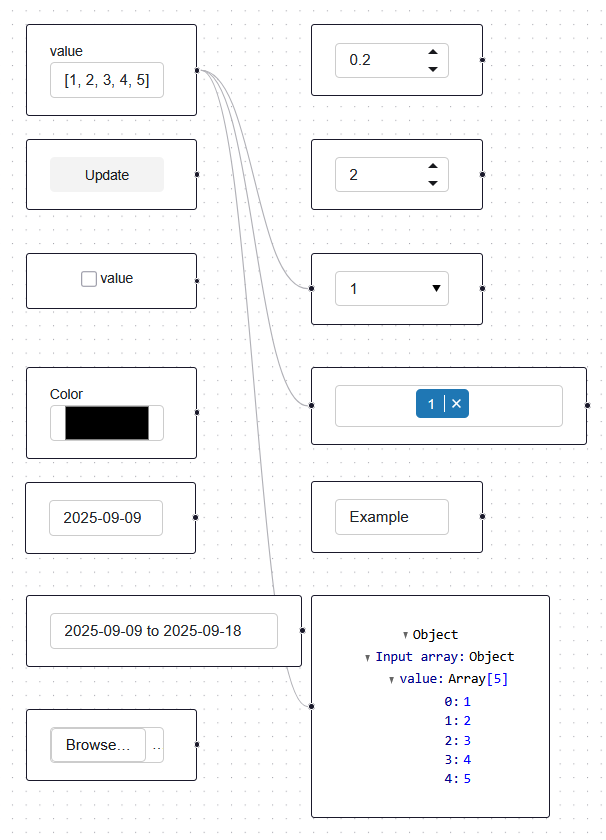
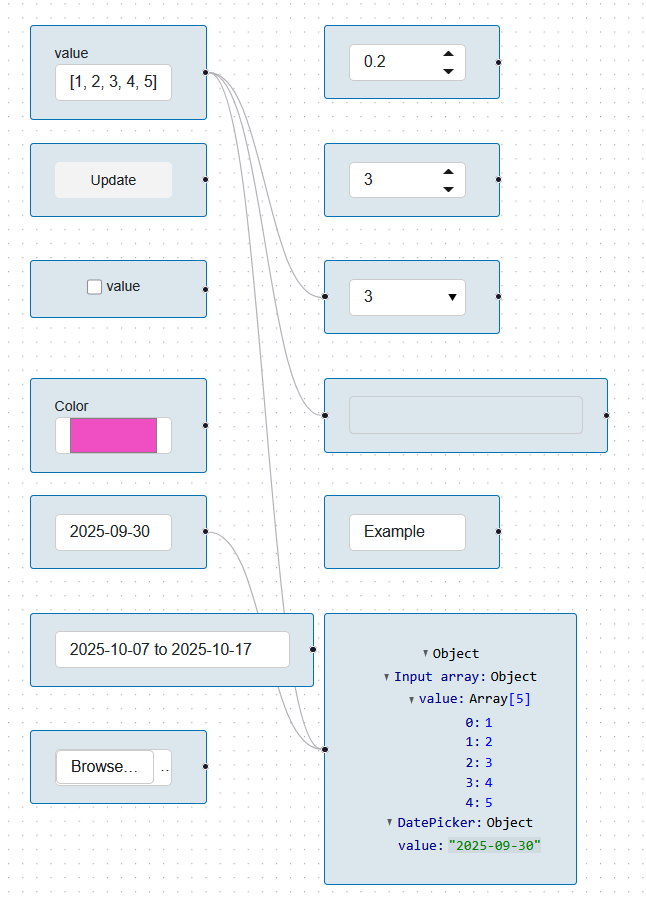
updated examples and pictures

diff --git a/examples/simple_example.py b/examples/simple_example.py
@@ -10,9 +10,9 @@ class FloatInputNode(WorkflowNode):
     node_class_name = "Float Input"
     ports:List[NodePort] = [NodePort(direction=PortDirection.OUTPUT, position=PortPosition.RIGHT, name="output")]
 
-    def __init__(self, ):
+    def __init__(self, value: float = 0.):
         super().__init__()
-        self.float_input = pn.widgets.FloatInput(value=0., width=100)
+        self.float_input = pn.widgets.FloatInput(value=value, width=100)
         
         self.float_input.param.watch(self.update, "value")
 
@@ -62,13 +62,16 @@ class ResultNode(WorkflowNode):
 
 
 def make_reactflow():
-    node_1 = FloatInputNode()
+    node_1 = FloatInputNode(4.5)
     node_2 = ResultNode()
+    node_3 = FloatInputNode(2)
 
     rf1 = Workflow(nodes_classes = [FloatInputNode, ResultNode],
                     initial_nodes=[Node("Node_1", node_1, 0, 0),
+                        Node("Node_3", node_3, 0, 100),
                         Node("Node_2", node_2, 200, 0),],
-                    initial_edges=[Edge("Node_1", "output", "Node_2", "input")])
+                    initial_edges=[Edge("Node_1", "output", "Node_2", "input"),
+                                   Edge("Node_3", "output", "Node_2", "input")])
 
     return rf1
 
